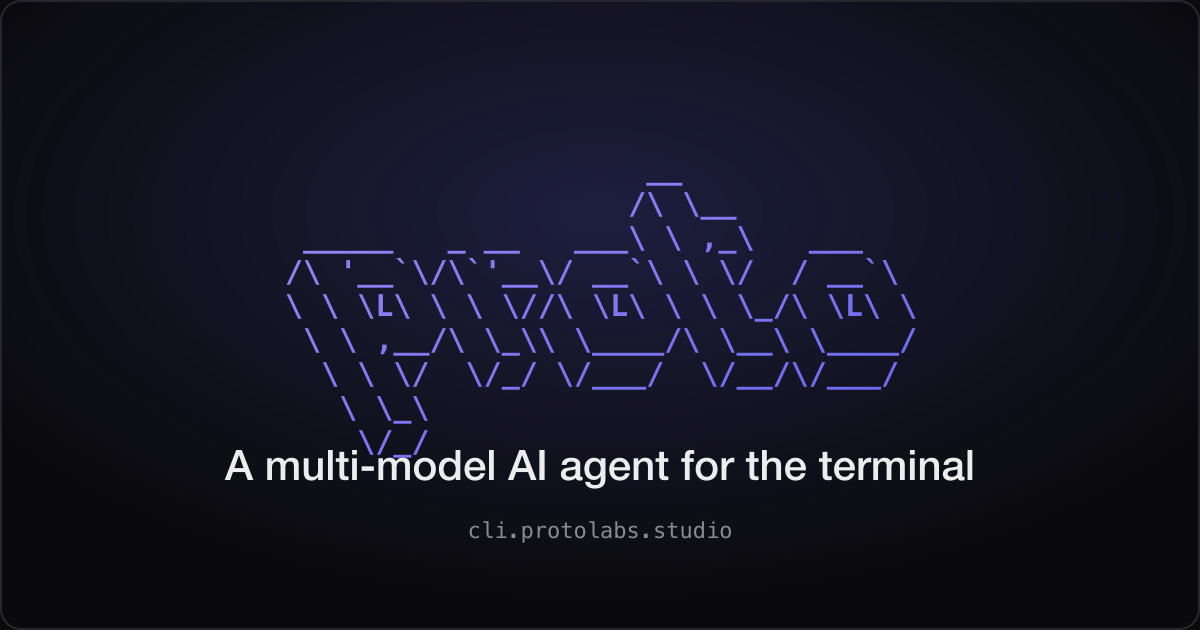
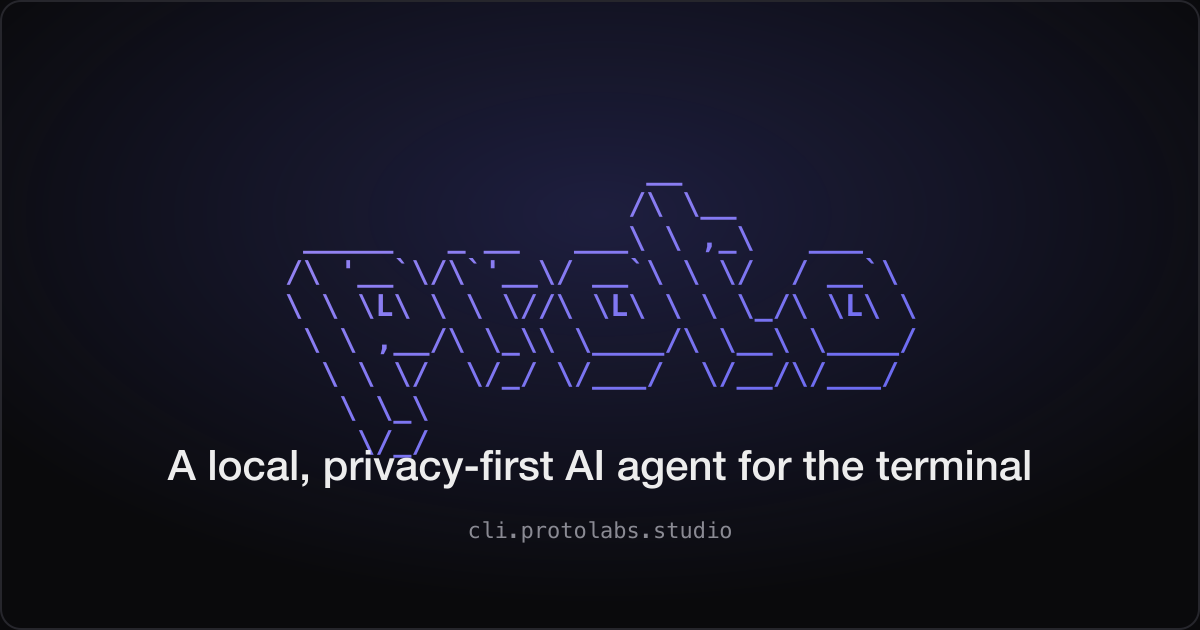
chore(marketing): rebrand to local/privacy-first; fix figlet hero overflow (#408)
- Reposition off "multi-model" to "A local, privacy-first AI agent for the
  terminal" across the marketing site (hero, lead, first feature, meta/OG) and
  the docs hero + description. Regenerate the OG card with the new tagline.
- Fix the hero terminal figlet overflowing into a horizontal scrollbar: scale
  the ASCII logo with container-query units (cqw) so it always fits the terminal
  at any width; overflow hidden as a backstop.

The link rest-underline fix is upstream in @protolabsai/design (protoContent#281);
drop the local a{text-decoration:none} override once it publishes and we bump.

Changed region(s): [[0.1233, 0.6937, 0.8633, 0.7841]]

diff --git a/docs/index.md b/docs/index.md
@@ -3,8 +3,8 @@ layout: home
 
 hero:
   name: proto
-  text: A multi-model AI agent for the terminal
-  tagline: Connect it to any OpenAI-compatible, Anthropic, or Gemini endpoint and let it read, write, and run code directly in your project.
+  text: A local, privacy-first AI agent for the terminal
+  tagline: Runs in your terminal against the models you choose — local, self-hosted, or any OpenAI-compatible, Anthropic, or Gemini endpoint. Your code and context stay yours.
   actions:
     - theme: brand
       text: Get Started
